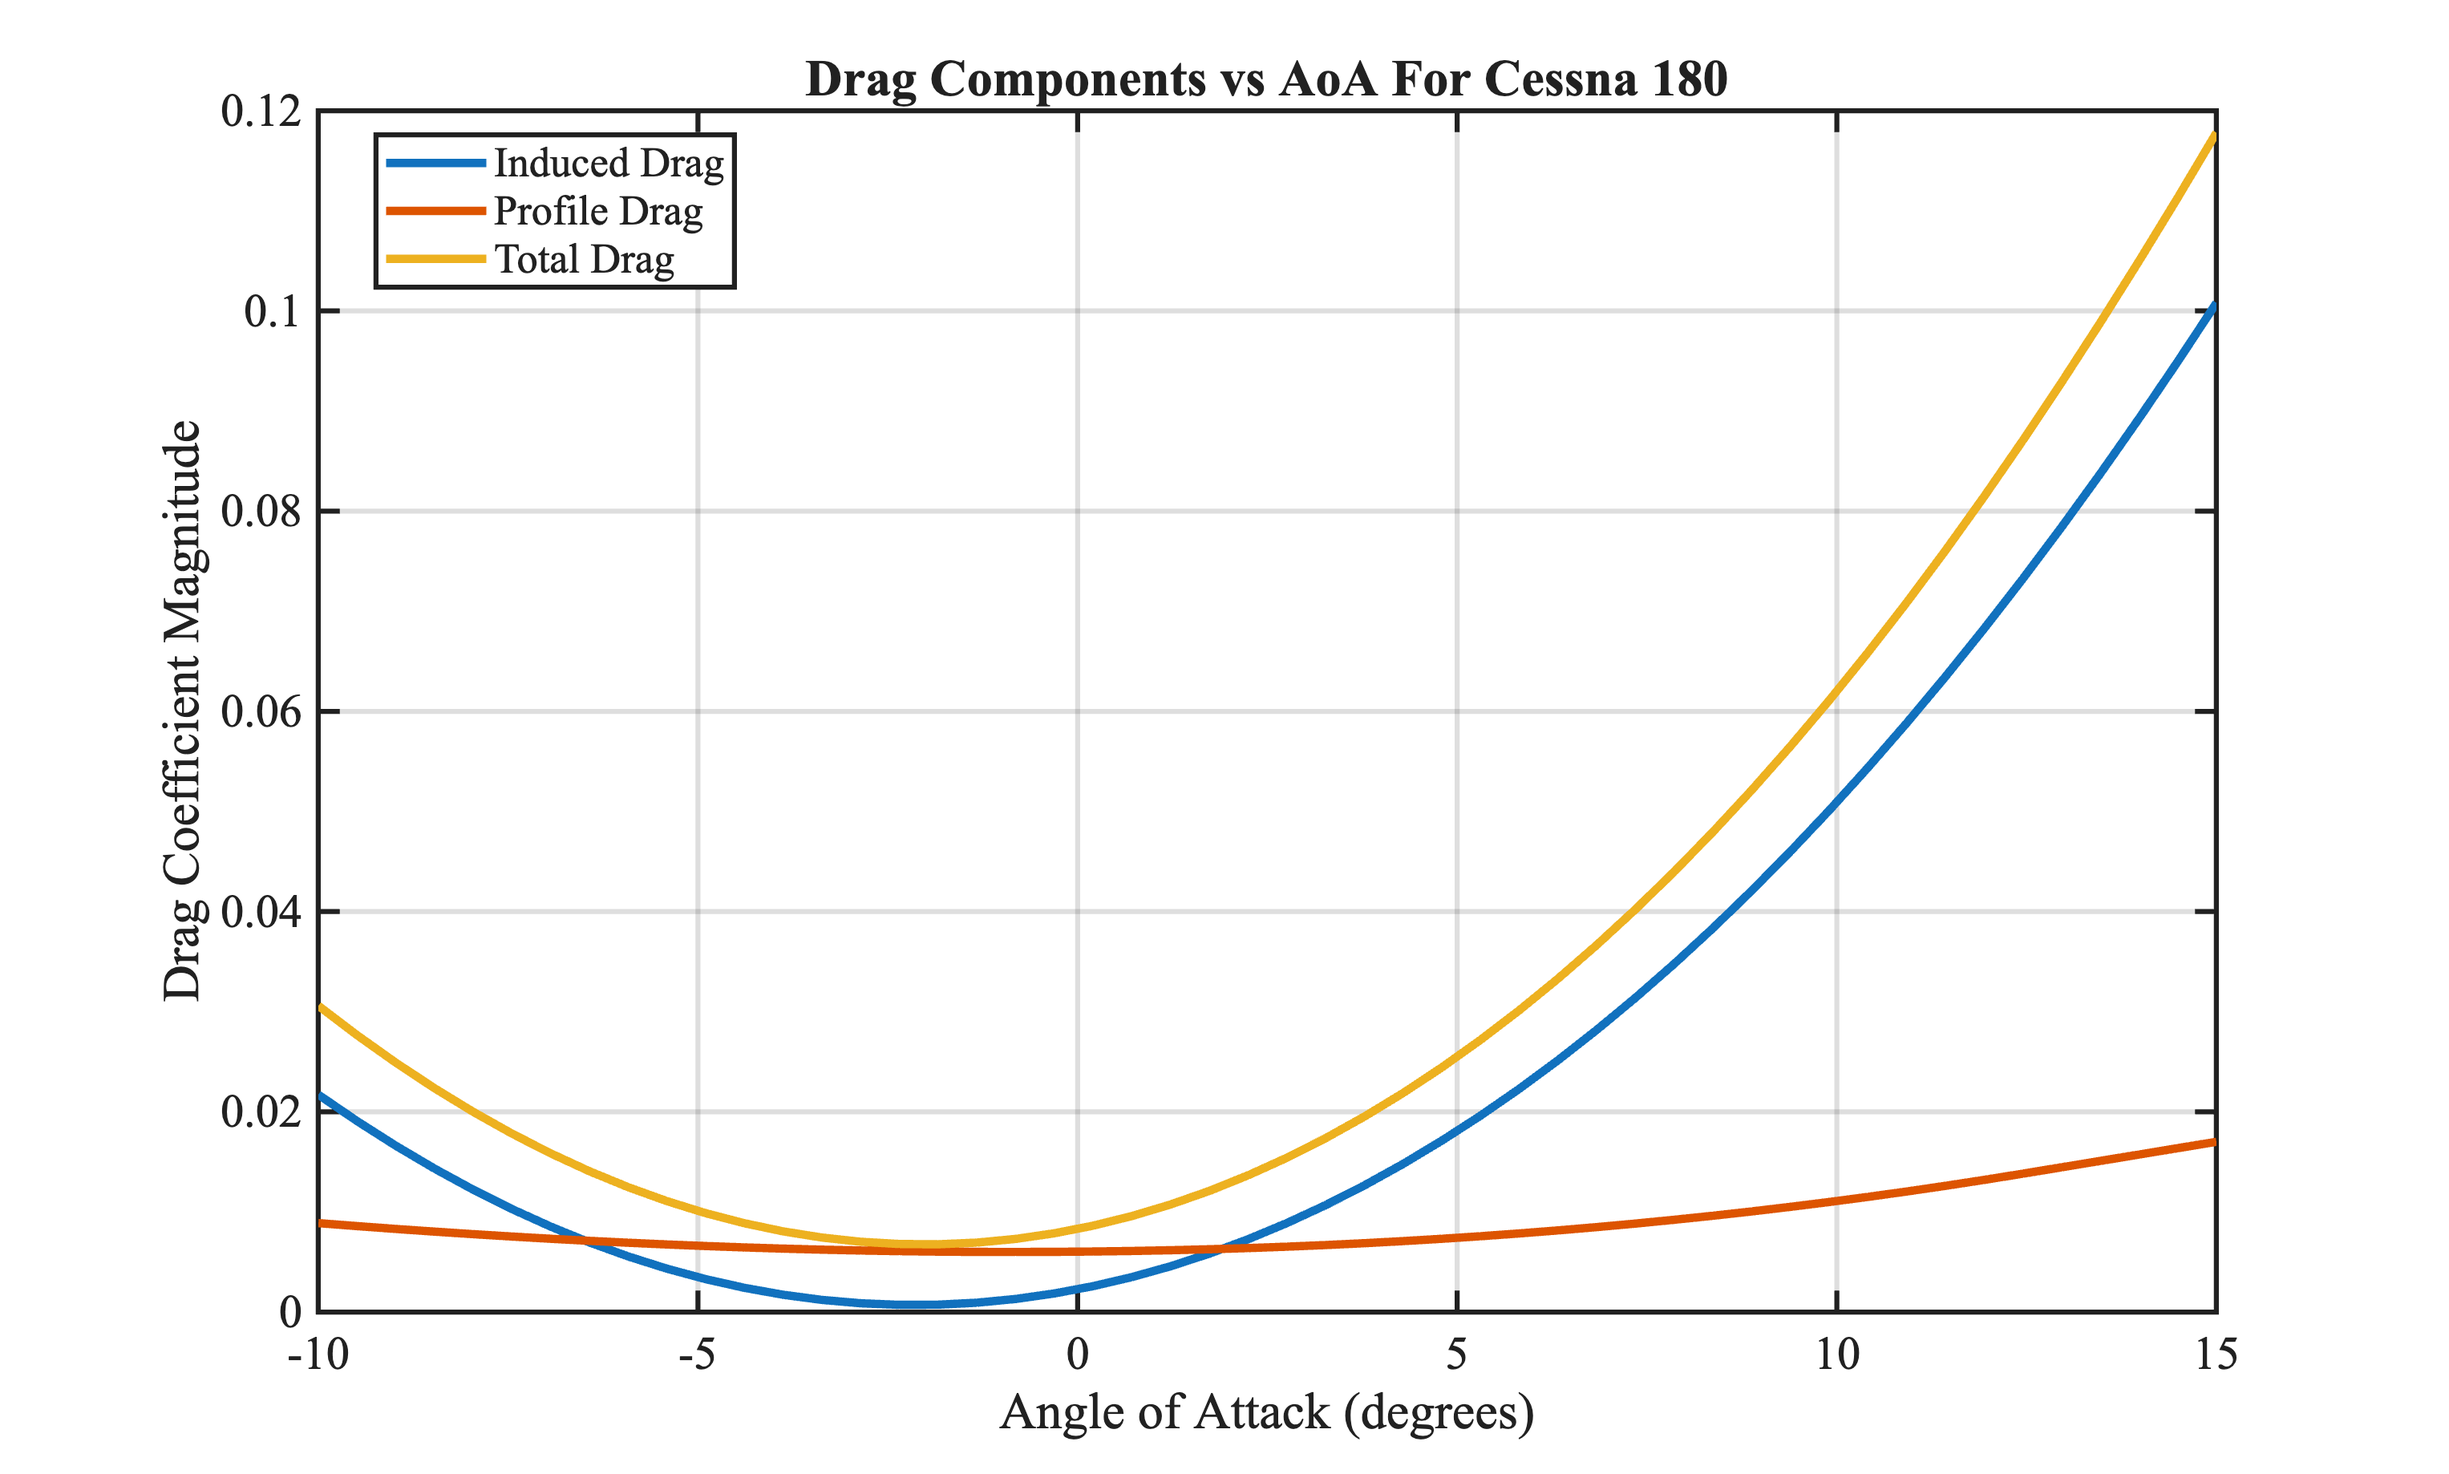
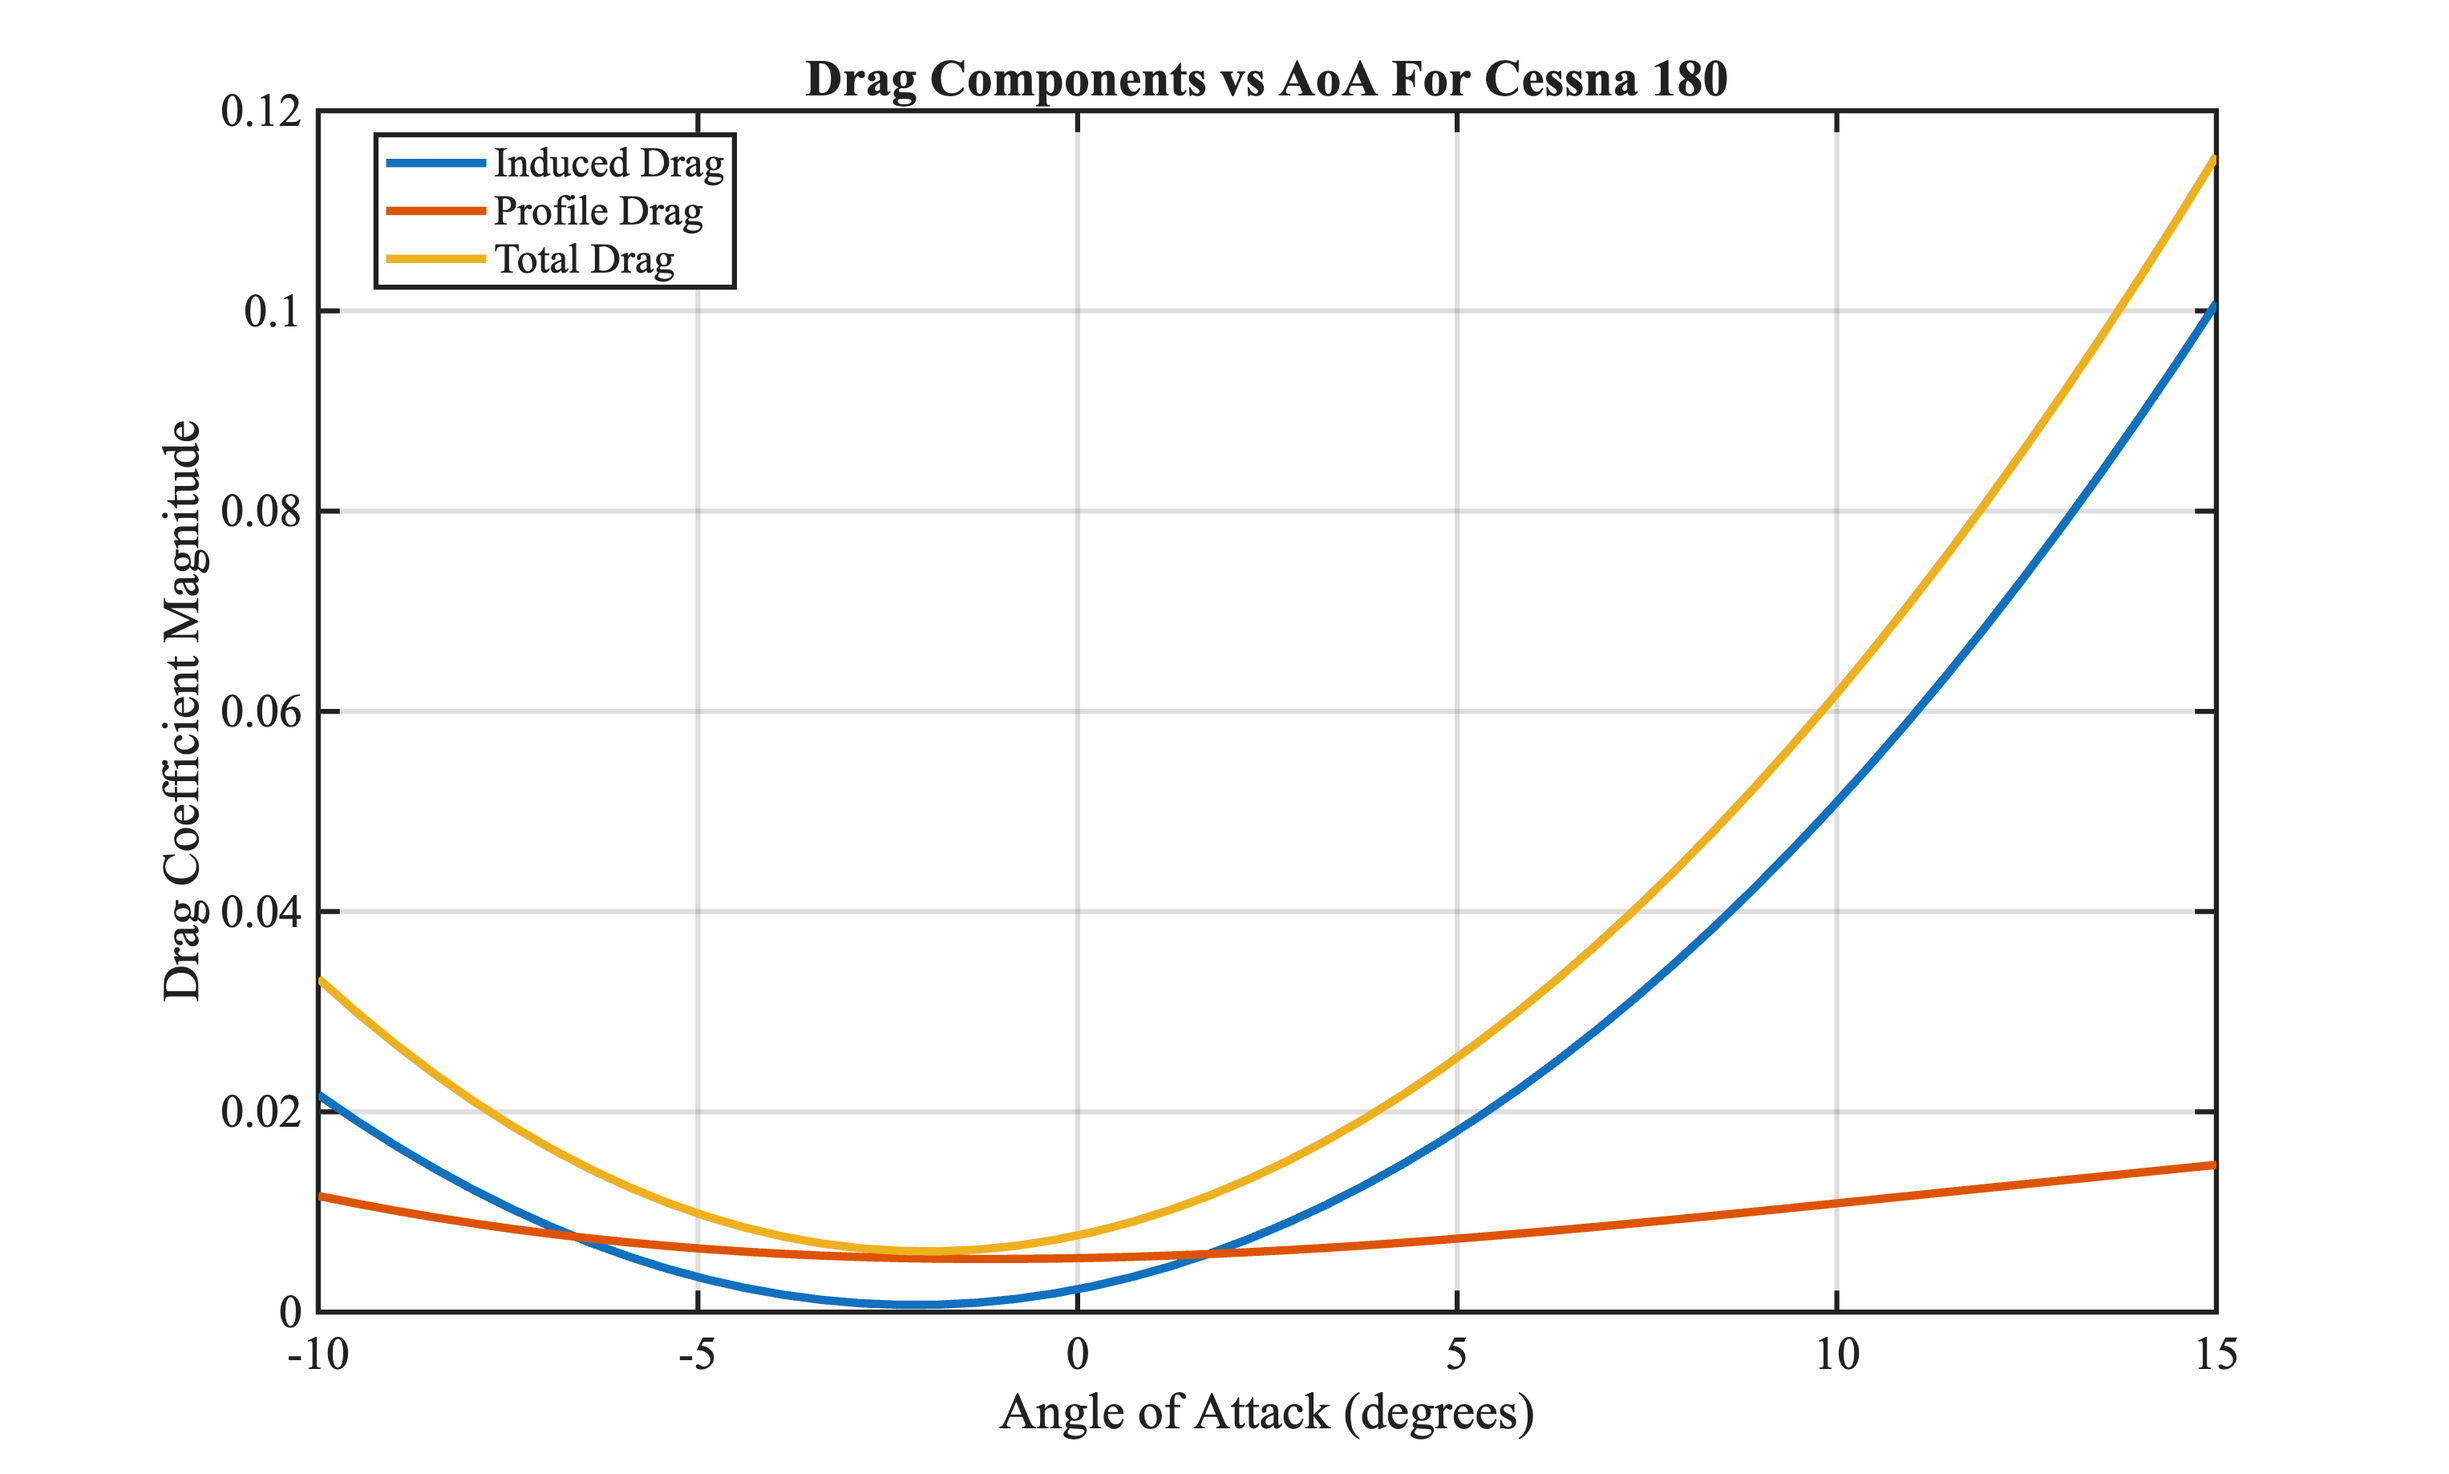
DDD

diff --git a/P3T3.m b/P3T3.m
@@ -79,7 +79,7 @@ cd_at_alpha = interp1(cl, cd, cl_1, 'spline');
 alpha2 = linspace(min(alpha1),max(alpha1),length(cd));
 
 %Find coefficents of variables 
-p = polyfit(alpha2,cd,3);
+p = polyfit(alpha1,cd_at_alpha,3);
 
 
 %New alpha for smooth curve
@@ -111,24 +111,64 @@ legend('Induced Drag','Profile Drag','Total Drag','Location','best')
 title('Drag Components vs AoA For Cessna 180')
 xlabel('Angle of Attack (degrees)')
 ylabel('Drag Coefficient Magnitude')
-<<<<<<< HEAD
 print('Drag Components','-dpng','-r300');
-=======
+
 totalDrag=c_Di+(cdo);
 
 %% P3T4
-w=2500; %lb
-rho=0.001756;%slug/ft3
-area=160.5;%ft^2
-velocities=linspace(0,1000,1000); %ft/s
-ReqCL=w.*2./rho./velocities./velocities./area;
-ReqAoA=interp1(c_L,alphast*180/pi,ReqCL);
-ReqCD=interp1(alphast*180/pi,totalDrag,ReqAoA);
-ReqT=ReqCD.*area.*velocities.*velocities.*rho./2;
+% w=2500; %lb
+% rho=0.001756;%slug/ft3
+% area=160.5;%ft^2
+% velocities=linspace(0,1000,1000); %ft/s
+% ReqCL=w.*2./rho./velocities./velocities./area;
+% ReqAoA=interp1(c_L,alphast*180/pi,ReqCL);
+% ReqCD=interp1(alphast*180/pi,totalDrag,ReqAoA);
+% ReqT=ReqCD.*area.*velocities.*velocities.*rho./2;
 
+w = 2500;              % weight [lb]
+rho = 0.001756;        % density [slug/ft^3]
+area = 160.5;          % wing area [ft^2]
+
+% Start velocities slightly above 0 to avoid division by zero
+velocities = linspace(10, 1000, 1000);  % ft/s (start at 10, not 0)
+
+% Required lift coefficient for level flight
+ReqCL = (w * 2) ./ (rho * velocities.^2 * area);
+
+% Required angle of attack
+% Make sure c_L and alphast are your actual variable names
+ReqAoA = interp1(c_L, alphast*180/pi, ReqCL, 'linear', 'extrap');
+
+% Required drag coefficient  
+ReqCD = interp1(alphast*180/pi, totalDrag, ReqAoA, 'linear', 'extrap');
+
+% Required thrust
+ReqT = 0.5 * ReqCD * area * rho .* velocities.^2;
+
+% Plot results
+figure;
+subplot(2,2,1);
+plot(velocities, ReqCL);
+xlabel('Velocity [ft/s]'); ylabel('Required C_L');
+title('Required Lift Coefficient'); grid on;
+
+subplot(2,2,2);
+plot(velocities, ReqAoA);
+xlabel('Velocity [ft/s]'); ylabel('Required AoA [deg]');
+title('Required Angle of Attack'); grid on;
+
+subplot(2,2,3);
+plot(velocities, ReqCD);
+xlabel('Velocity [ft/s]'); ylabel('Required C_D');
+title('Required Drag Coefficient'); grid on;
+
+subplot(2,2,4);
+plot(velocities, ReqT);
+xlabel('Velocity [ft/s]'); ylabel('Required Thrust [lb]');
+title('Thrust Required'); grid on;
 figure
 plot(velocities/1.68781,ReqT)
 title('Thrust Required vs Velocity for Cessna 180')
 xlabel('Velocity (knots)')
 ylabel('Thrust Required (lbs)')
->>>>>>> fa0b06cf09c1de0af71ae4a71ca7138496b3c75b
+
